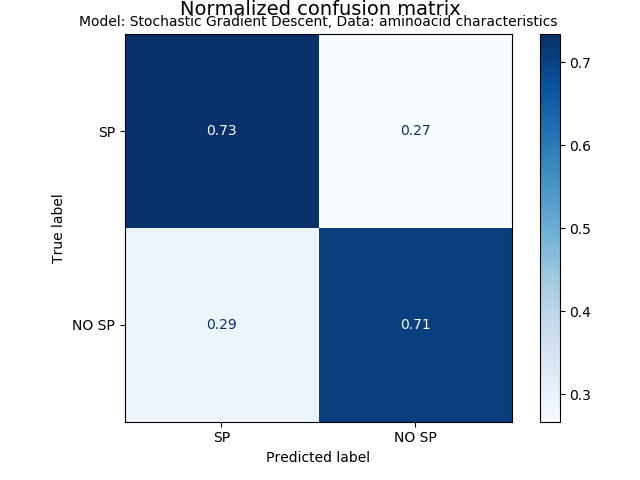
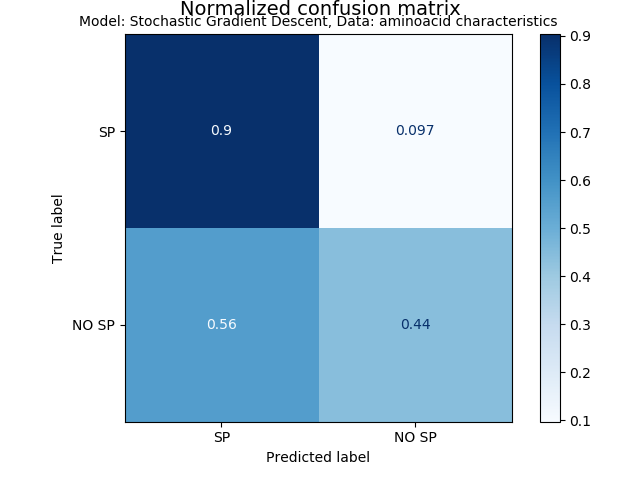
lowered max_iter for gradient descent model

diff --git a/Signal Peptide Classifier/SignalPeptideClassifier.py b/Signal Peptide Classifier/SignalPeptideClassifier.py
@@ -168,11 +168,11 @@ def stochastic_gradient_descent(seq_train, seq_test, class_ids_train, class_ids_
         # max_iter=12 (maximum of iterations in combination with the log loss function, tried: 5, 8, 10, 12, 15 and 20)
 
     elif coding == 'characteristics':
-        classifier = SGDClassifier(loss='log', penalty='l2', max_iter=18)
+        classifier = SGDClassifier(loss='log', penalty='l2', max_iter=10)
         # the following parameters are set to fit the optimal model and produce the optimal confusion matrix
         # loss='log' (loss function, tried: hinge, modified_huber and log)
         # penalty='l2' (L2 regularization)
-        # max_iter=12 (maximum of iterations in combination with the log loss function, tried: 5, 8, 10, 12, 15, 18 and 20)
+        # max_iter=10 (maximum of iterations in combination with the log loss function, tried: 5, 8, 10, 12, 15, 18 and 20)
 
     classifier.fit(seq_train, class_ids_train)
     algorithm = 'Stochastic Gradient Descent'
